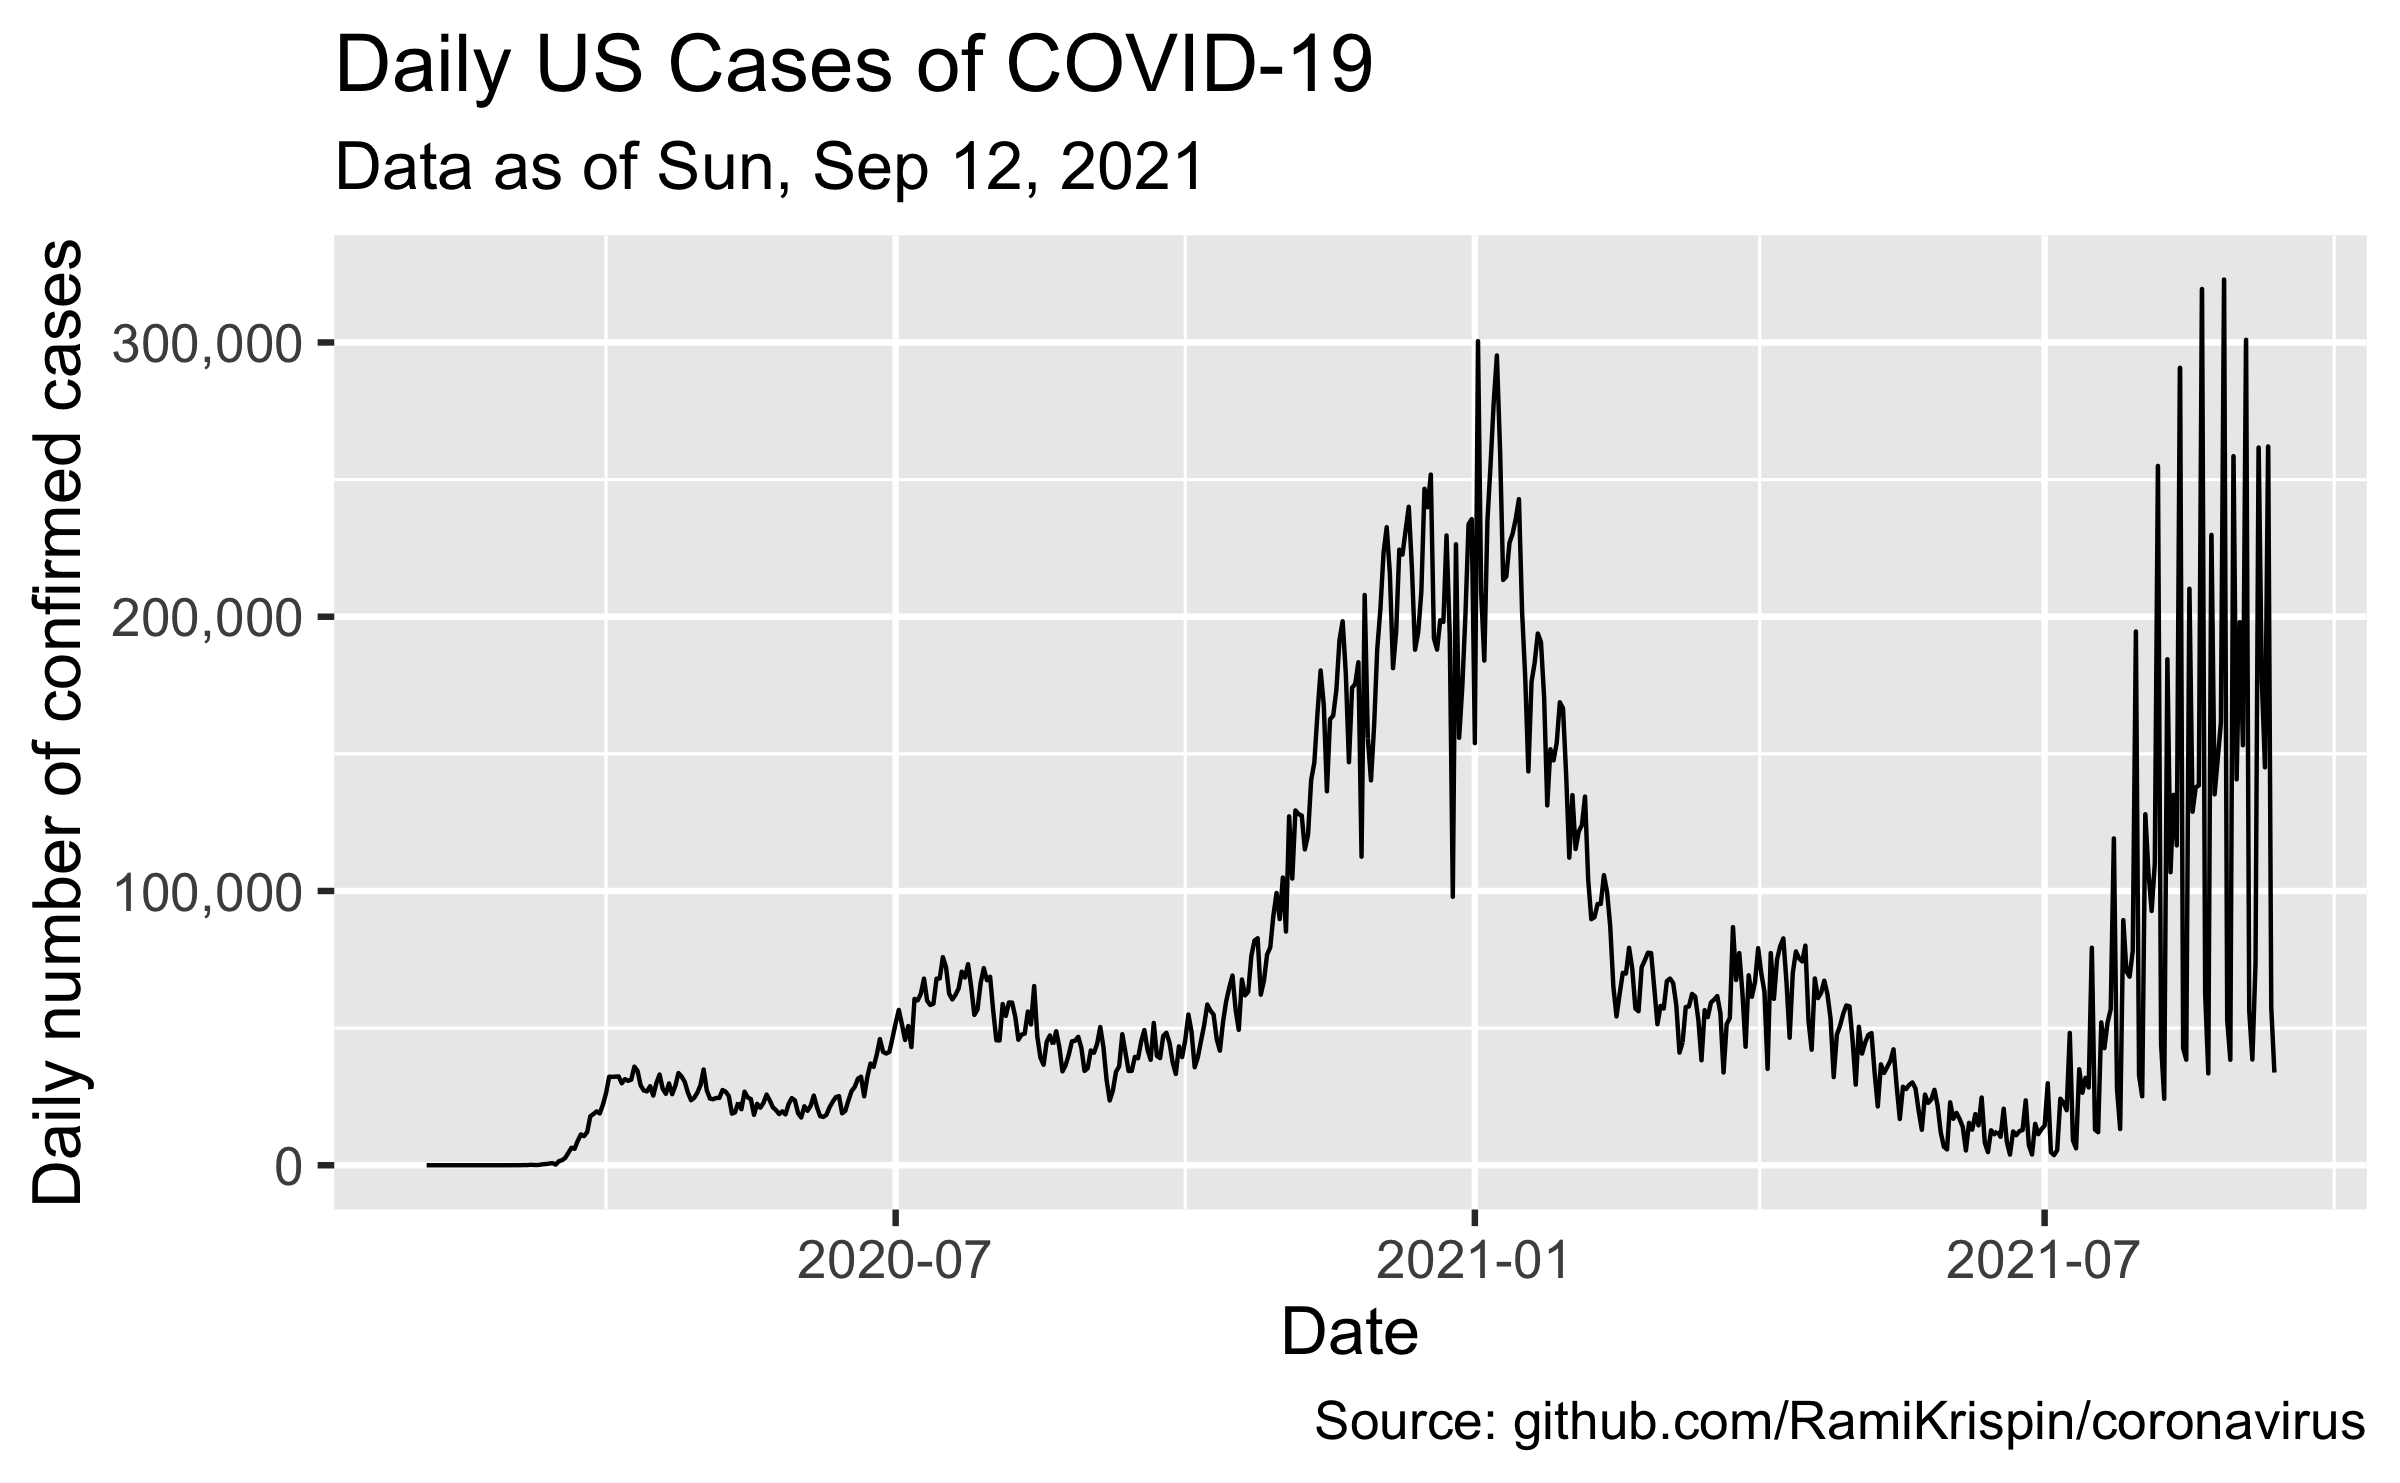
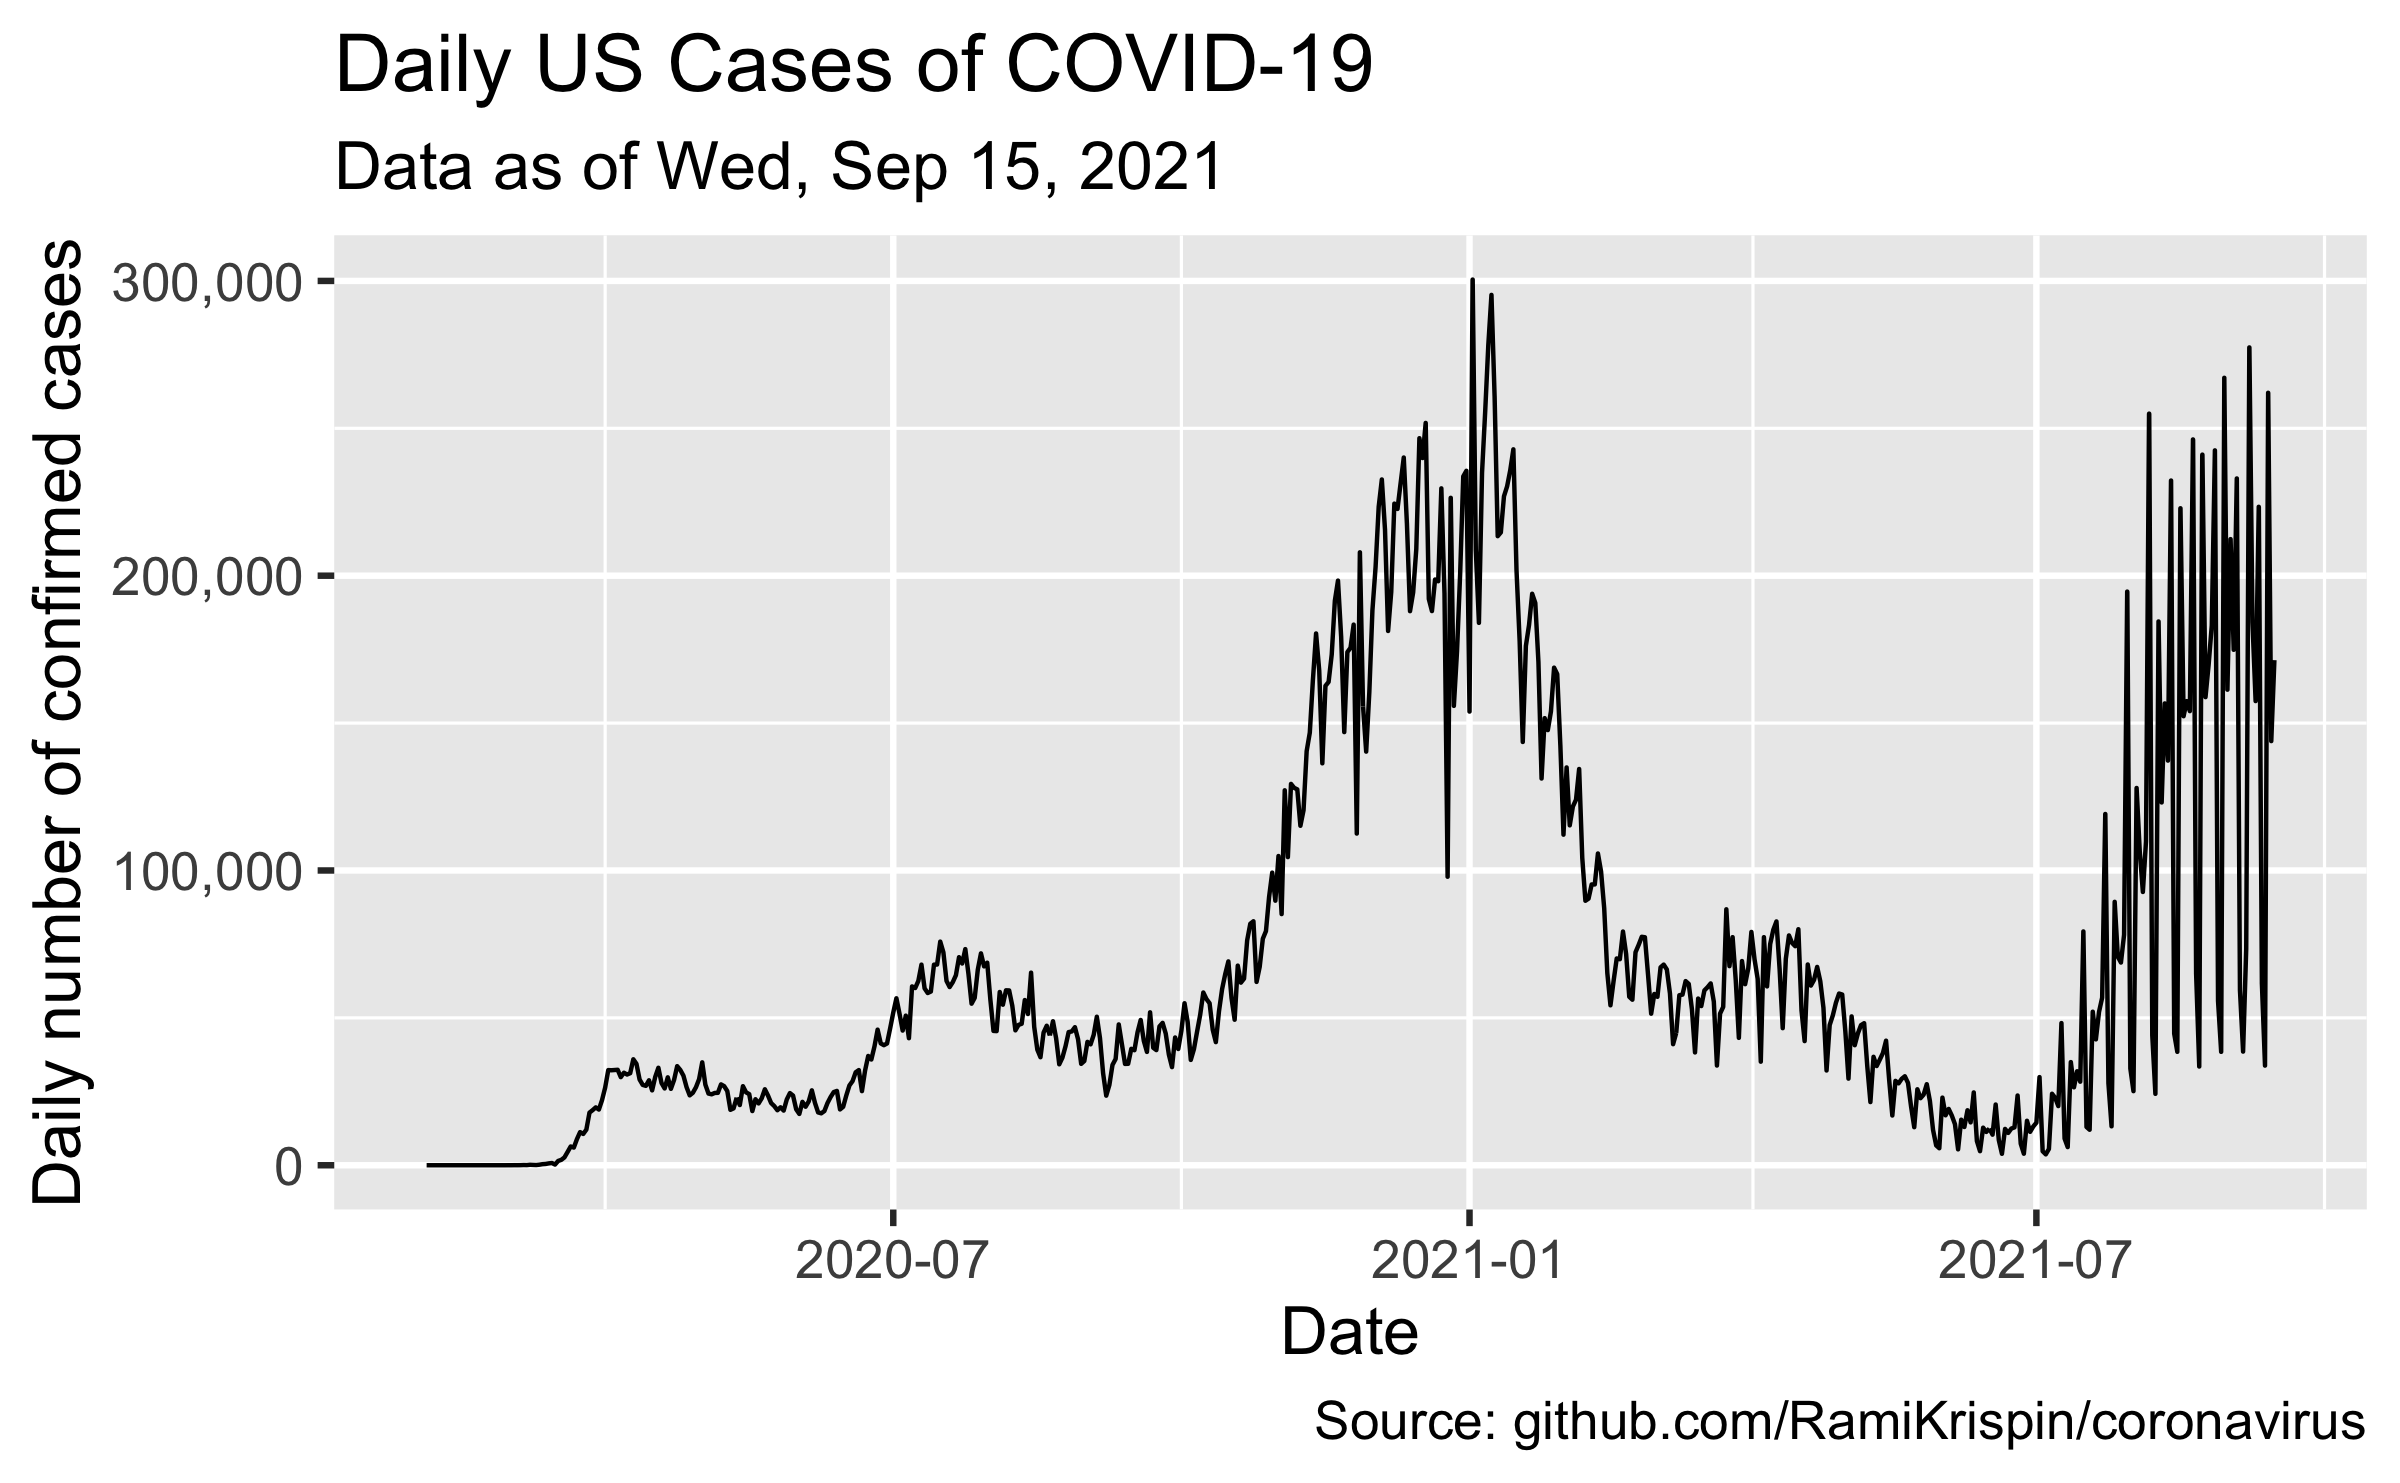
updating coronavirus

diff --git a/docs/slides/week-04/w4-l01-wrangling1.html b/docs/slides/week-04/w4-l01-wrangling1.html
@@ -936,6 +936,42 @@ BMI_long %&gt;%
 
 ---
 
+### distinct()
+
+One more nifty command is the `distinct` command in R, which eliminates duplicate rows.
+
+
+```r
+age &lt;- as_tibble(c(1,1,1,2,3))
+age
+```
+
+```
+## # A tibble: 5 × 1
+##   value
+##   &lt;dbl&gt;
+## 1     1
+## 2     1
+## 3     1
+## 4     2
+## 5     3
+```
+
+```r
+distinct(age)
+```
+
+```
+## # A tibble: 3 × 1
+##   value
+##   &lt;dbl&gt;
+## 1     1
+## 2     2
+## 3     3
+```
+
+---
+
 ### Additional Resources
 
 - https://rstudio.com/wp-content/uploads/2015/02/data-wrangling-cheatsheet.pdf

diff --git a/docs/slides/week-04/w4-l03-tidying.html b/docs/slides/week-04/w4-l03-tidying.html
@@ -378,7 +378,7 @@ interventions %&gt;%
 
 class: middle
 
-# Case study: Approval Rating of President Trump
+# Line Graph Case Study: Approval Rating of President Trump
 
 ---
 
@@ -652,7 +652,7 @@ as_of_date &lt;- country_data %&gt;%
 as_of_date_formatted &lt;- glue("{wday(as_of_date, label = TRUE)}, {month(as_of_date, label = TRUE)} {day(as_of_date)}, {year(as_of_date)}")
 ```
 
-These data are as of Sun, Sep 12, 2021.
+These data are as of Wed, Sep 15, 2021.
 
 ---
 

diff --git a/static/slides/week-04/w4-l03-tidying.html b/static/slides/week-04/w4-l03-tidying.html
@@ -378,7 +378,7 @@ interventions %&gt;%
 
 class: middle
 
-# Case study: Approval Rating of President Trump
+# Line Graph Case Study: Approval Rating of President Trump
 
 ---
 
@@ -652,7 +652,7 @@ as_of_date &lt;- country_data %&gt;%
 as_of_date_formatted &lt;- glue("{wday(as_of_date, label = TRUE)}, {month(as_of_date, label = TRUE)} {day(as_of_date)}, {year(as_of_date)}")
 ```
 
-These data are as of Sun, Sep 12, 2021.
+These data are as of Wed, Sep 15, 2021.
 
 ---
 
